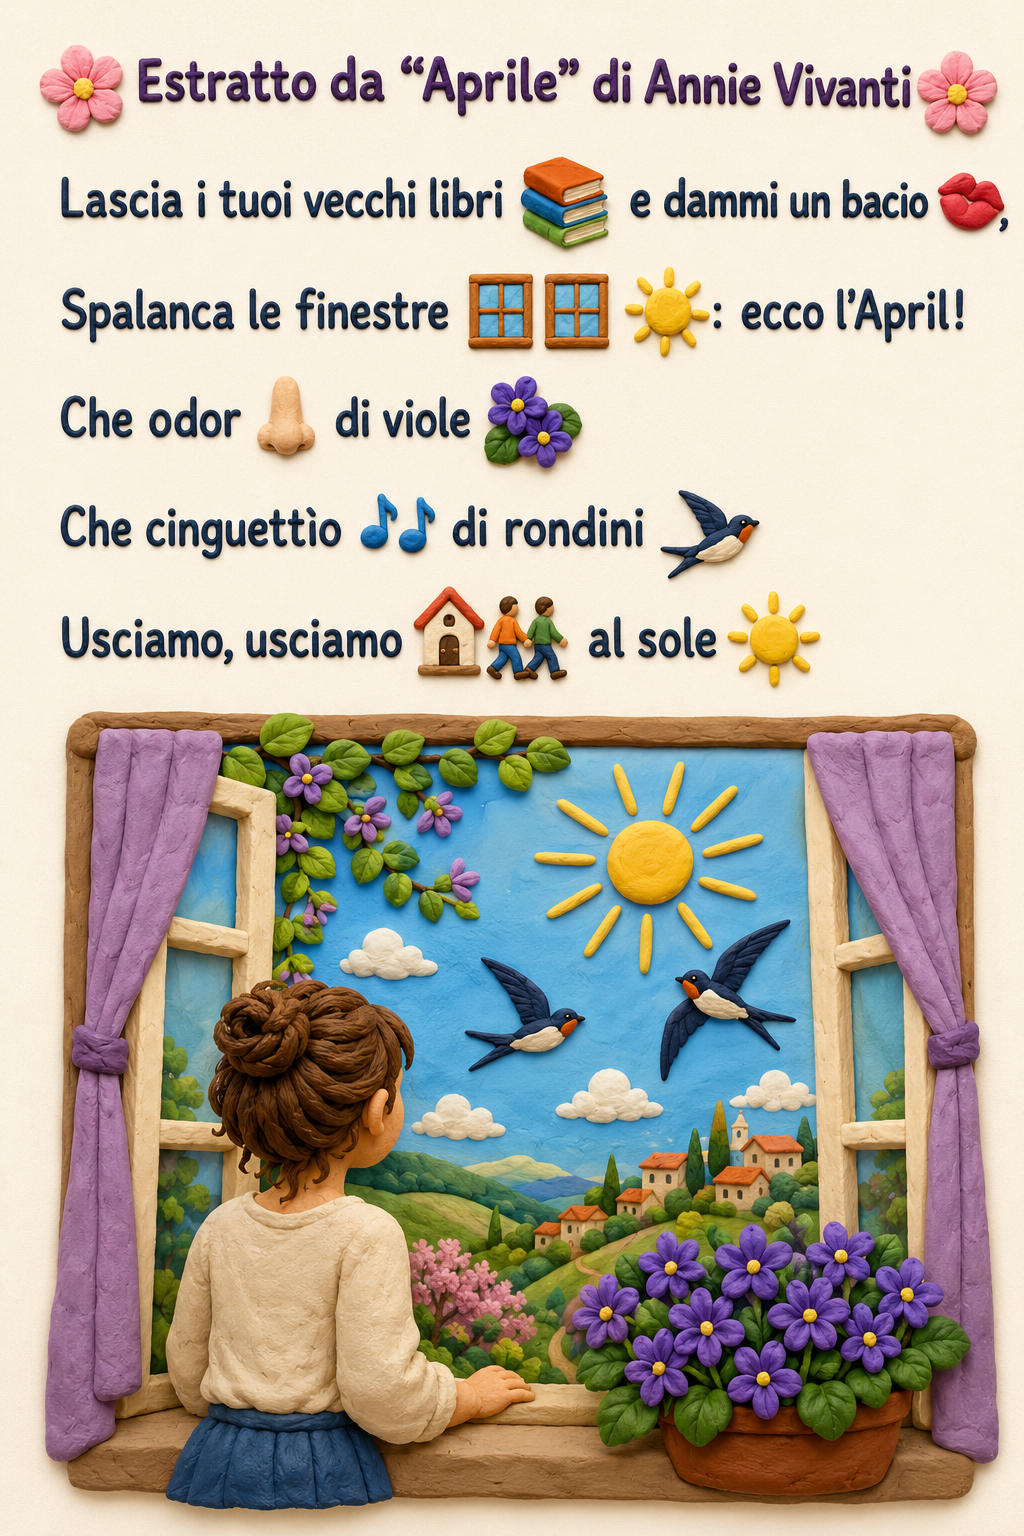
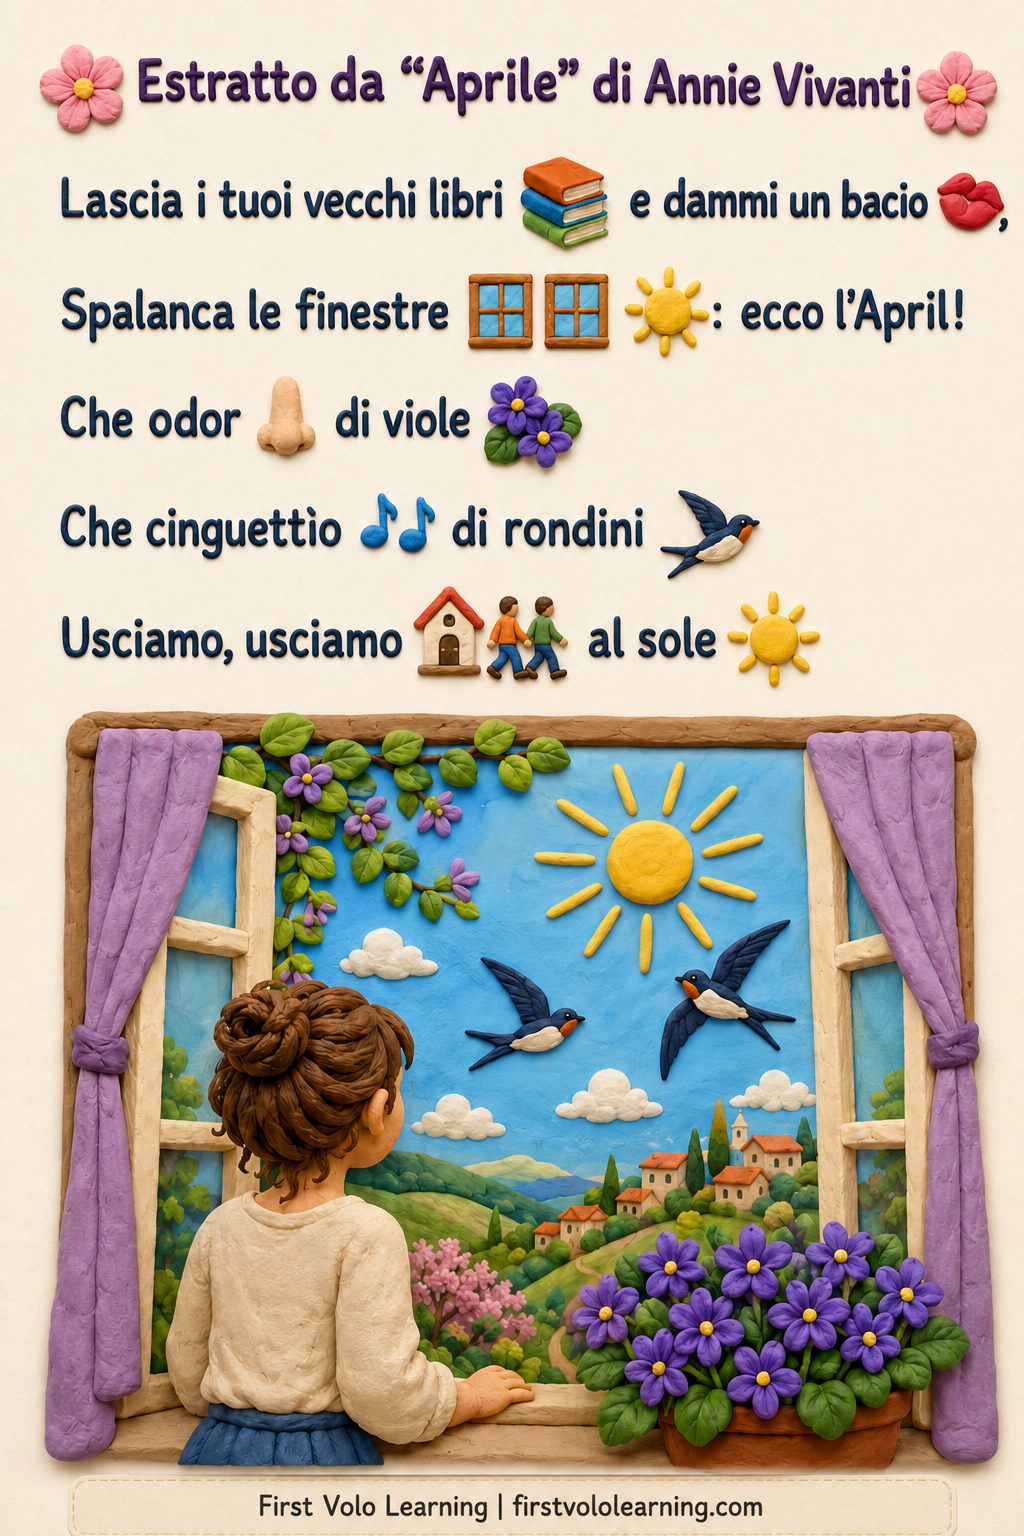
Update cultural resources for truffles and spring poetry

diff --git a/cultural-resources/harvest/index.html b/cultural-resources/harvest/index.html
@@ -225,13 +225,13 @@ main {
 
     <a
       class="harvest-card harvest-card-active"
-      href="../vendemmia/la-vendemmia.png"
+      href="la-vendemmia.png"
       target="_blank"
       rel="noopener noreferrer"
     >
       <img
         class="harvest-image"
-        src="../vendemmia/la-vendemmia.png"
+        src="la-vendemmia.png"
         alt="La vendemmia"
       >
 
@@ -252,14 +252,20 @@ main {
       </div>
     </a>
 
-    <article class="harvest-card harvest-coming">
-
-      <div class="harvest-icon">🐕</div>
+    <a
+      class="harvest-card harvest-card-active"
+      href="tartufo.png"
+      target="_blank"
+      rel="noopener noreferrer"
+    >
+      <img
+        class="harvest-image"
+        src="tartufo.png"
+        alt="La cerca del tartufo in Italia"
+      >
 
       <div class="harvest-copy">
-        <strong>
-          La ricerca del tartufo
-        </strong>
+        <strong>🐕 La cerca del tartufo</strong>
 
         <span>
           Cani addestrati, boschi e tartufi d'autunno
@@ -270,11 +276,10 @@ main {
         </span>
 
         <small>
-          Prossimamente · Coming Soon
+          Esplora · Explore ↗
         </small>
       </div>
-
-    </article>
+    </a>
 
     <article class="harvest-card harvest-coming">
 

diff --git a/cultural-resources/index.html b/cultural-resources/index.html
@@ -358,7 +358,7 @@
     >
       <img
         class="resource-image harvest-resource-image"
-        src="vendemmia/la-vendemmia.png"
+        src="harvest/la-vendemmia.png"
         alt="Italian harvest and food traditions"
       >
 
